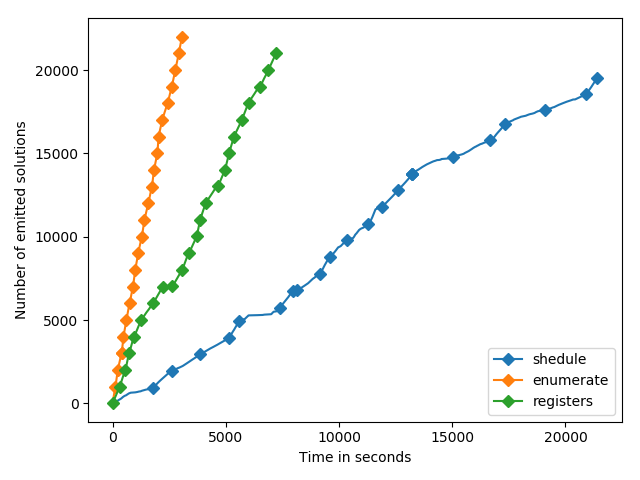
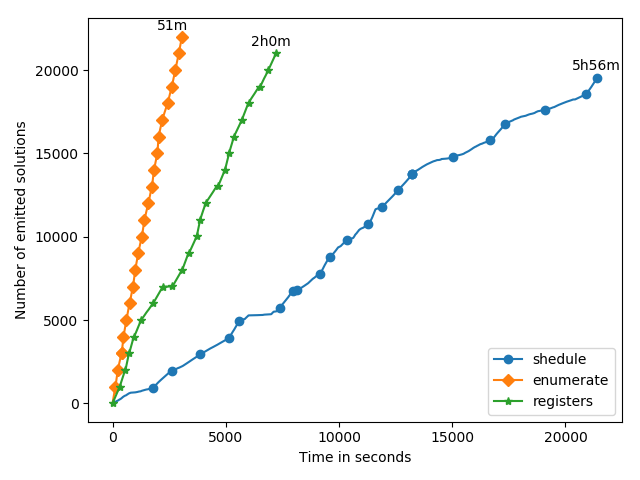
Add annotations that describe total time taken

diff --git a/scripts/generation_time_analysis.py b/scripts/generation_time_analysis.py
@@ -21,7 +21,8 @@ for key, t in times.items():
     else:
         strat_times[strat].append(t)
 
-for strat, times in strat_times.items():
+markers = ["o", "D", "*"]
+for i, (strat, times) in enumerate(strat_times.items()):
     flat_list = [0]
     markers_on = []
     for function_times in times:
@@ -31,7 +32,18 @@ for strat, times in strat_times.items():
     # Every element in flat_list represents one solution.
     plt.plot([x / 1000 for x in flat_list], [x for x in range(len(flat_list))],
             label=strat.replace("diff", "enumerate").replace("sched", "shedule"),
-            marker="D", markevery=markers_on)
+            marker=markers[i], markevery=markers_on)
+
+    millis = flat_list[-1]
+    hours = millis / 1000 / 60 / 60
+    minutes = millis / 1000 / 60 % 60
+    anno = "{}m".format(int(minutes))
+    anno = "{}h{}".format(int(hours), anno) if hours >= 1 else anno
+
+    anno_x = millis/1000
+    anno_y = len(flat_list) - 1
+    plt.annotate(anno, xy=(anno_x, anno_y), xytext=(anno_x - 1100, anno_y + 1100),
+                verticalalignment="top")
 
 plt.ylabel("Number of emitted solutions")
 plt.xlabel("Time in seconds")
